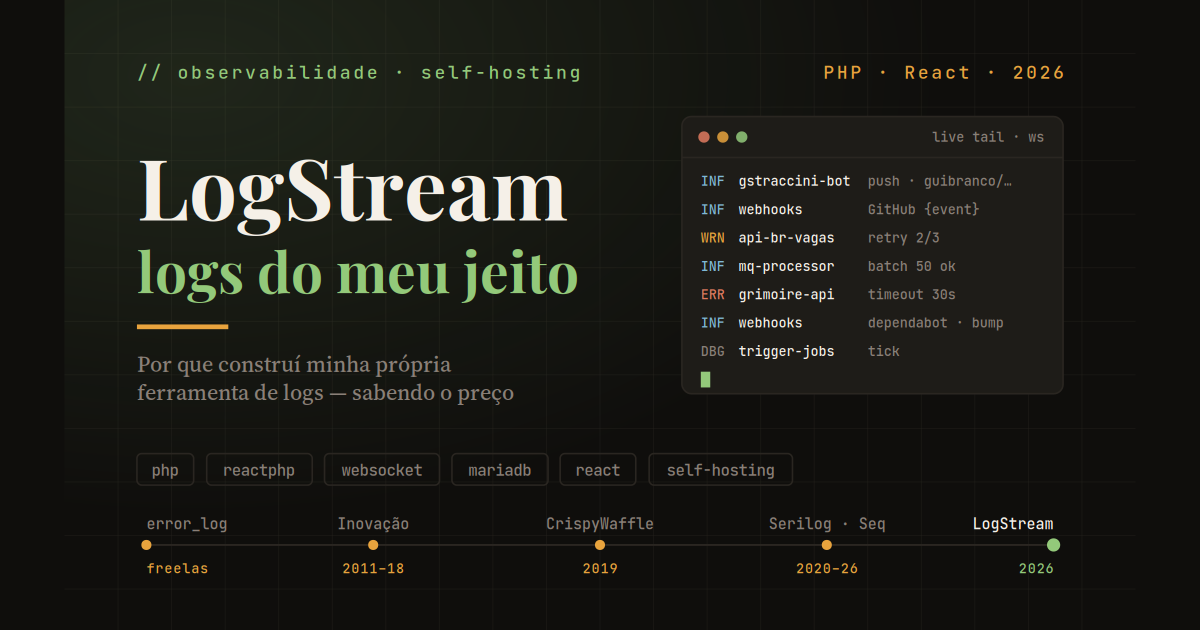
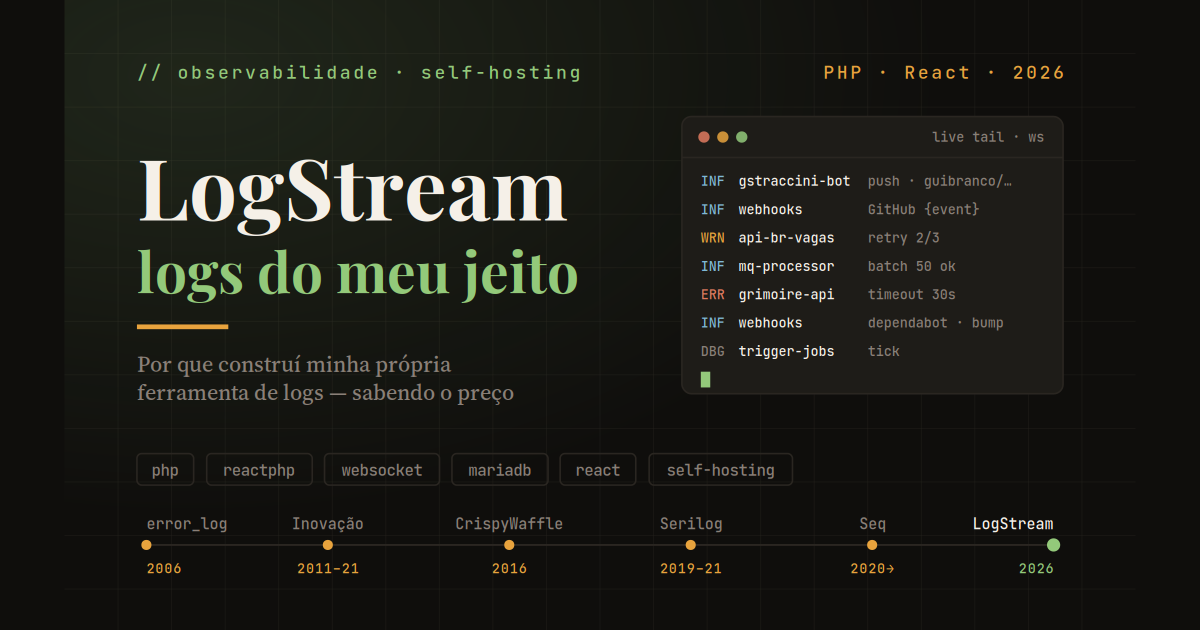
Post LogStream: linha do tempo corrigida (#258)
* LogStream post: correct the career timeline

Personal projects from late 2006, freelancing from 2008, Inovação
2011-2018 as employee and freelancer until 2021, Serilog at BS2
2019-2021, Seq at Farfetch / Talabat / OUTsurance from late 2020.
Updated in the text, the lineage diagram and the cover strip.

Claude-Session: https://claude.ai/code/session_014EM6YRXoPydMK8uFDHFyyD

* chore: render Open Graph cards

* LogStream post: add GitHub repository cards

Claude-Session: https://claude.ai/code/session_014EM6YRXoPydMK8uFDHFyyD

* LogStream post: CrispyWaffle origin, log databases, planned dashboards

- CrispyWaffle came out of Inovação's integration service and went
  open source around 2016 (text, lineage diagram, cover strip).
- New "E um banco feito para logs?" subsection comparing VictoriaLogs,
  Loki, ClickHouse and time-series DBs as a future storage mode.
- Dashboards and alerts marked as planned in the comparison table.

Claude-Session: https://claude.ai/code/session_014EM6YRXoPydMK8uFDHFyyD

* chore: render Open Graph cards

* LogStream post: link the Integração Service documentation

Claude-Session: https://claude.ai/code/session_014EM6YRXoPydMK8uFDHFyyD

---------

diff --git a/_posts/2026-11-11-logstream-ferramenta-de-logs-propria.md b/_posts/2026-11-11-logstream-ferramenta-de-logs-propria.md
@@ -21,6 +21,8 @@ medium_tags: [logs, php, react, observabilidade, open-source]
 
 Os dois repositórios são públicos: o [logstream-server](https://github.com/guibranco/logstream-server) (PHP 8.3 + ReactPHP + Ratchet) e o [logstream-ui](https://github.com/guibranco/logstream-ui) (React + Vite + TypeScript). A instância que eu uso no dia a dia roda só na rede interna, e uma versão de demonstração pública está a caminho.
 
+[![logstream-server](https://github-readme-stats-guibranco.vercel.app/api/pin/?username=guibranco&repo=logstream-server&show_owner=true&show_forks=false&show_issues=true)](https://github.com/guibranco/logstream-server){:target="_blank"} [![logstream-ui](https://github-readme-stats-guibranco.vercel.app/api/pin/?username=guibranco&repo=logstream-ui&show_owner=true&show_forks=false&show_issues=true)](https://github.com/guibranco/logstream-ui){:target="_blank"}
+
 <div class="divider">· · ·</div>
 
 <div class="section-header">
@@ -28,7 +30,7 @@ Os dois repositórios são públicos: o [logstream-server](https://github.com/gu
   <div class="section-title-wrap"><h2>Vinte anos procurando erro</h2></div>
 </div>
 
-Comecei a programar bem antes do primeiro emprego formal, em 2011. Na época de estudo e dos freelas, era PHP procedural — e depois um PHP orientado a objetos ainda engatinhando. Debug era `echo`, `print_r` e `var_dump` espalhados no código até a coisa funcionar. Sem Xdebug, sem ferramenta de log, sem teste unitário, sem teste de integração. Quando o código amadurecia o suficiente para ir para produção, os erros que escapavam iam parar num lugar só: o `error_log`.
+Comecei a programar bem antes do primeiro emprego formal, em 2011: meus primeiros projetos pessoais são do fim de 2006, e os primeiros freelas, de 2008. Nessa época de estudo e de freelas, era PHP procedural — e depois um PHP orientado a objetos ainda engatinhando. Debug era `echo`, `print_r` e `var_dump` espalhados no código até a coisa funcionar. Sem Xdebug, sem ferramenta de log, sem teste unitário, sem teste de integração. Quando o código amadurecia o suficiente para ir para produção, os erros que escapavam iam parar num lugar só: o `error_log`.
 
 Esse hábito sobreviveu mais do que deveria. Boa parte dos meus projetos pessoais roda numa hospedagem compartilhada com cPanel, e por anos o fluxo para descobrir um problema foi este: entrar no cPanel, abrir o gerenciador de arquivos, achar o `error_log` da pasta certa, ler, corrigir, apagar o arquivo e torcer.
 
@@ -49,12 +51,12 @@ A tabela `messages` do Projects Monitor nunca foi pensada para ser uma ferrament
 O LogStream não saiu do nada. Ele é a quarta ou quinta encarnação de uma ideia que me acompanha desde o primeiro emprego.
 
 <img src="{{ site.baseurl }}/assets/img/posts/logstream/linhagem.svg"
-     alt="Linha do tempo das ferramentas de log: echo e error_log nos freelas; Inovação de 2011 a 2018 com Redis, RabbitMQ, Elasticsearch e UI em React; CrispyWaffle open source desde 2019; Serilog e Seq de 2020 a 2026 na Farfetch, Talabat e OUTsurance; Projects Monitor com o scanner de error_log; e o LogStream em 2026. Abaixo, o que cada etapa deixou."
+     alt="Linha do tempo das ferramentas de log: projetos pessoais desde o fim de 2006 e freelas desde 2008, com echo e error_log; Inovação de 2011 a 2018 como funcionário e até 2021 como freelancer, com Redis, RabbitMQ, Elasticsearch e UI em React; CrispyWaffle, que saiu de dentro do Integração Service e virou open source por volta de 2016; Serilog no BS2 de 2019 a 2021; Seq na Farfetch, Talabat e OUTsurance desde o fim de 2020; Projects Monitor com o scanner de error_log; e o LogStream em 2026. Abaixo, o que cada etapa deixou."
      style="width:100%;max-width:860px;display:block;margin:1.75rem auto;border-radius:8px;border:1px solid var(--border);box-shadow:0 4px 20px rgba(26,23,20,.08);">
 
-### Inovação (2011–2018): Redis, RabbitMQ e Elasticsearch — ao mesmo tempo
+### Inovação (2011–2021): Redis, RabbitMQ e Elasticsearch — ao mesmo tempo
 
-Passei quase sete anos na Editora Inovação (Inovação Media Brasil), boa parte deles como o principal — às vezes o único — desenvolvedor. O maior produtor de mensagens era o serviço de integração, mas todos os projetos internos e externos, hospedados na Locaweb ou em servidores dentro da própria empresa, mandavam mensagens estruturadas para três destinos: **Redis** (pub/sub), **RabbitMQ** e **Elasticsearch**. Uma UI em React consumia o Redis e o RabbitMQ para mostrar as mensagens em tempo real, e o Elasticsearch alimentava relatórios e gráficos.
+Passei quase sete anos como funcionário da Editora Inovação (Inovação Media Brasil), de 2011 a 2018, boa parte deles como o principal — às vezes o único — desenvolvedor, e continuei atendendo a empresa como freelancer até 2021. O maior produtor de mensagens era o [Integração Service](https://guilherme.stracini.com.br/Integracao-Service/){:target="_blank"} — a aplicação .NET que sincronizava o ERP Sankhya com a plataforma de e-commerce VTEX e conectava os outros sistemas do grupo —, mas todos os projetos internos e externos, hospedados na Locaweb ou em servidores dentro da própria empresa, mandavam mensagens estruturadas para três destinos: **Redis** (pub/sub), **RabbitMQ** e **Elasticsearch**. Uma UI em React consumia o Redis e o RabbitMQ para mostrar as mensagens em tempo real, e o Elasticsearch alimentava relatórios e gráficos.
 
 <div class="personal-story">
   <div class="personal-story-label">
@@ -66,13 +68,15 @@ Passei quase sete anos na Editora Inovação (Inovação Media Brasil), boa part
 
 O código daquela UI (o repositório *Notifications*) continua privado — por um motivo nada nobre: ele guarda segredos no próprio código, de uma época em que eu ainda não usava variáveis de ambiente, muito menos um cofre de segredos.
 
-### CrispyWaffle (2019 →): o produtor não sabe para onde o log vai
+### CrispyWaffle (~2016 →): o produtor não sabe para onde o log vai
 
-A parte de log daquele ecossistema virou o módulo de logs do [CrispyWaffle](https://github.com/guibranco/CrispyWaffle), meu toolkit .NET open source. A ideia central é a separação entre quem produz a mensagem e para onde ela vai: o código chama o log, e uma lista de **providers** decide o destino — console, arquivo de texto com rotação, Redis pub/sub, RabbitMQ, Elasticsearch, Event Log do Windows, Log4Net. O formato da mensagem (`LogMessage`) já carregava aplicação, categoria, nível, host, IP, processo, thread e uma "operação" para agrupar mensagens relacionadas.
+O [CrispyWaffle](https://github.com/guibranco/CrispyWaffle) nasceu dentro do Integração Service: era o toolkit .NET dele, incluindo a parte de log. Depois passou a servir todos os projetos .NET da Inovação e, por volta de 2016, eu o tornei open source — a partir daí ele foi parar também em freelas meus e em projetos de terceiros. A ideia central do módulo de logs é a separação entre quem produz a mensagem e para onde ela vai: o código chama o log, e uma lista de **providers** decide o destino — console, arquivo de texto com rotação, Redis pub/sub, RabbitMQ, Elasticsearch, Event Log do Windows, Log4Net. O formato da mensagem (`LogMessage`) já carregava aplicação, categoria, nível, host, IP, processo, thread e uma "operação" para agrupar mensagens relacionadas.
 
-### Serilog e Seq (2020–2026): message templates mudam o jogo
+[![CrispyWaffle](https://github-readme-stats-guibranco.vercel.app/api/pin/?username=guibranco&repo=CrispyWaffle&show_owner=true&show_forks=false&show_issues=true)](https://github.com/guibranco/CrispyWaffle){:target="_blank"}
 
-Na Farfetch, na Talabat e, principalmente, nos quase quatro anos de OUTsurance, aqui em Dublin, o padrão foi Serilog — e, na OUTsurance, Seq como destino. O conceito que mais mudou a minha forma de investigar problema foi o de [message templates](https://messagetemplates.org/): você escreve `"Charge failed for invoice {InvoiceId}"`, e a ferramenta guarda tanto a frase renderizada quanto o template e cada propriedade separadamente. Dá para achar todas as ocorrências daquela linha de código, independentemente dos valores, e filtrar por qualquer propriedade.
+### Serilog (2019 →) e Seq (2020 →): message templates mudam o jogo
+
+Conheci o Serilog no BS2, onde trabalhei de 2019 a 2021. O Seq veio logo depois: na Farfetch, do fim de 2020 ao começo de 2021, na Talabat, de 2021 a 2023, e na OUTsurance, aqui em Dublin, de 2023 até hoje — quase quatro anos de uso diário. O conceito que mais mudou a minha forma de investigar problema foi o de [message templates](https://messagetemplates.org/): você escreve `"Charge failed for invoice {InvoiceId}"`, e a ferramenta guarda tanto a frase renderizada quanto o template e cada propriedade separadamente. Dá para achar todas as ocorrências daquela linha de código, independentemente dos valores, e filtrar por qualquer propriedade.
 
 O LogStream se baseia bastante no Seq — não copiando, mas usando como referência alguns filtros e formas de exibir os logs, adaptados ao que eu preciso e corrigindo coisas do Seq que, pessoalmente, não me agradam.
 
@@ -187,7 +191,11 @@ O que eu mais uso no dia a dia:
 
 Hoje, três jeitos de mandar log para o LogStream convivem na minha infraestrutura.
 
-**PHP, pelo [Pancake](https://github.com/guibranco/pancake).** Meu toolkit PHP ganhou uma classe `LogStream`, usada pelo GStraccini-bot, pelas APIs do API BR e pelo próprio Projects Monitor:
+**PHP, pelo [Pancake](https://github.com/guibranco/pancake).** Meu toolkit PHP ganhou uma classe `LogStream`, usada pelo GStraccini-bot, pelas APIs do API BR e pelo próprio Projects Monitor.
+
+[![Pancake](https://github-readme-stats-guibranco.vercel.app/api/pin/?username=guibranco&repo=pancake&show_owner=true&show_forks=false&show_issues=true)](https://github.com/guibranco/pancake){:target="_blank"}
+
+O uso é assim:
 
 ```php
 use GuiBranco\Pancake\LogStream;
@@ -278,7 +286,7 @@ Enquanto isso, a tabela `messages` do Projects Monitor continua viva como **fall
     <tr><td>Message templates e propriedades</td><td><span class="check">✓</span></td><td><span class="check">✓</span></td><td><span class="partial">~</span></td></tr>
     <tr><td>Live tail</td><td><span class="check">✓</span></td><td><span class="check">✓</span></td><td><span class="partial">~</span></td></tr>
     <tr><td>Busca rápida em volume grande</td><td><span class="partial">~</span></td><td><span class="check">✓</span></td><td><span class="check">✓</span></td></tr>
-    <tr><td>Dashboards e alertas</td><td><span class="cross">✗</span></td><td><span class="check">✓</span></td><td><span class="check">✓</span></td></tr>
+    <tr><td>Dashboards e alertas</td><td><span class="partial">~</span> planejados</td><td><span class="check">✓</span></td><td><span class="check">✓</span></td></tr>
     <tr><td>Maturidade e comunidade</td><td><span class="cross">✗</span></td><td><span class="check">✓</span></td><td><span class="check">✓</span></td></tr>
     <tr><td>Evolui no meu ritmo, na minha stack</td><td><span class="check">✓</span></td><td><span class="cross">✗</span></td><td><span class="cross">✗</span></td></tr>
   </tbody>
@@ -316,9 +324,25 @@ Sinceramente, até agora não sinto falta de nada no dia a dia. Parte disso é q
   </div>
   <div class="provider-card">
     <div class="provider-name"><i class="fas fa-database"></i> Storage</div>
-    <div class="provider-detail">Substituir o file mode por um banco feito para logs. O candidato mais natural é o VictoriaLogs: schemaless, guarda cada campo em blocos separados e foi pensado para gastar pouca RAM.</div>
+    <div class="provider-detail">Substituir o file mode por um banco feito para logs. O candidato mais natural é o VictoriaLogs — detalhes logo abaixo.</div>
   </div>
 </div>
+
+### E um banco feito para logs?
+
+Hoje o LogStream guarda tudo num MariaDB comum, e a seção 07 mostrou o preço: o índice ocupa mais que o próprio dado. Existem bancos pensados especificamente para isso, e eles resolvem o problema de formas bem diferentes:
+
+<table class="compare-table">
+  <thead><tr><th>Banco</th><th>Como indexa</th><th>Encaixa no LogStream?</th></tr></thead>
+  <tbody>
+    <tr><td><strong>VictoriaLogs</strong></td><td>Schemaless: recebe cada entrada como JSON e guarda cada campo em blocos separados, sem configurar schema nem índice</td><td><span class="check">✓</span> o candidato natural — casa com o modelo de propriedades livres no estilo Serilog e roda como um binário único</td></tr>
+    <tr><td><strong>Grafana Loki</strong></td><td>Indexa só os <em>labels</em> (app, ambiente); o conteúdo da mensagem é varrido como um grep</td><td><span class="partial">~</span> barato, mas a busca por propriedade do contexto, que eu mais uso, fica lenta</td></tr>
+    <tr><td><strong>ClickHouse</strong></td><td>Banco colunar genérico, muito rápido em agregações</td><td><span class="partial">~</span> funciona bem quando os campos e as consultas são conhecidos de antemão — o oposto de um contexto livre</td></tr>
+    <tr><td><strong>InfluxDB / TimescaleDB</strong></td><td>Séries temporais, pensadas para métricas numéricas</td><td><span class="cross">✗</span> log é texto com contexto, não número no tempo</td></tr>
+  </tbody>
+</table>
+
+O plano é tratar isso como mais um modo de storage atrás da mesma API, como já acontece com o file mode e o MariaDB: os clientes e a UI não precisariam saber que o banco mudou. A própria equipe do VictoriaLogs afirma que ele costuma precisar de menos RAM e disco que o Loki para o mesmo volume de logs — algo que eu ainda quero medir na minha VM antes de decidir.
 
 Várias dessas issues estão marcadas como `good first issue` e `help wanted` nos dois repositórios. Se quiser contribuir, é por lá.
 
@@ -333,6 +357,7 @@ Várias dessas issues estão marcadas como `good first issue` e `help wanted` no
   <ol class="references-list">
     <li>guibranco. <strong>logstream-server.</strong> <a href="https://github.com/guibranco/logstream-server" target="_blank">github.com</a></li>
     <li>guibranco. <strong>logstream-ui.</strong> <a href="https://github.com/guibranco/logstream-ui" target="_blank">github.com</a></li>
+    <li>guibranco. <strong>Integração Service — documentação.</strong> <a href="https://guilherme.stracini.com.br/Integracao-Service/" target="_blank">guilherme.stracini.com.br</a></li>
     <li>guibranco. <strong>CrispyWaffle — módulo de logs.</strong> <a href="https://github.com/guibranco/CrispyWaffle" target="_blank">github.com</a></li>
     <li>guibranco. <strong>Pancake — LogStream.</strong> <a href="https://guibranco.github.io/pancake/user-guide/logstream/" target="_blank">guibranco.github.io</a></li>
     <li>Datalust. <strong>Seq — System Requirements.</strong> <a href="https://datalust.co/docs/system-requirements" target="_blank">datalust.co</a></li>
@@ -340,6 +365,7 @@ Várias dessas issues estão marcadas como `good first issue` e `help wanted` no
     <li>Oracle. <strong>Always Free Resources.</strong> <a href="https://docs.oracle.com/en-us/iaas/Content/FreeTier/resourceref.htm" target="_blank">docs.oracle.com</a></li>
     <li><strong>Message Templates.</strong> <a href="https://messagetemplates.org/" target="_blank">messagetemplates.org</a></li>
     <li>VictoriaMetrics. <strong>VictoriaLogs — FAQ.</strong> <a href="https://docs.victoriametrics.com/victorialogs/faq/" target="_blank">docs.victoriametrics.com</a></li>
+    <li>ITNEXT. <strong>Why VictoriaLogs is a better alternative to Grafana Loki?</strong> <a href="https://itnext.io/why-victorialogs-is-a-better-alternative-to-grafana-loki-7e941567c4d5" target="_blank">itnext.io</a></li>
     <li><strong>ReactPHP.</strong> <a href="https://reactphp.org/" target="_blank">reactphp.org</a> · <strong>Ratchet.</strong> <a href="http://socketo.me/" target="_blank">socketo.me</a></li>
   </ol>
 </div>
